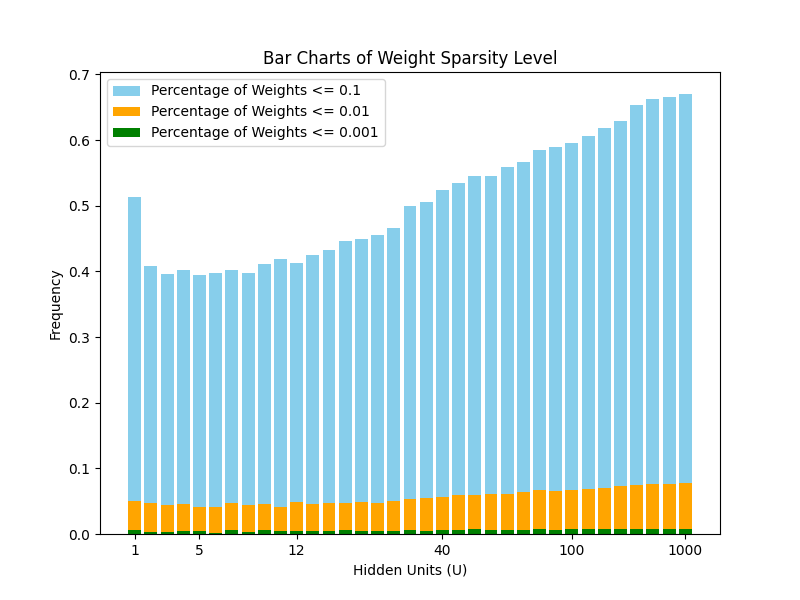
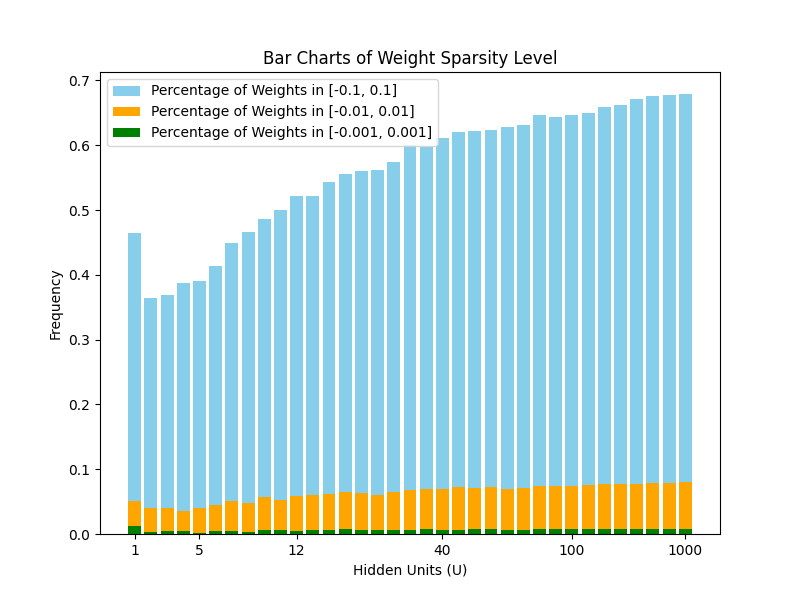
S-Value Test

diff --git a/model_evaluation/sparsity_test.py b/model_evaluation/sparsity_test.py
@@ -3,12 +3,129 @@ import sys
 import os
 
 import matplotlib.pyplot as plt
-import seaborn as sns
+from model_evaluation import knn_test
+from collections import Counter
+from scipy.stats import rankdata
+from tqdm import tqdm
 
 sys.path.append('..')
-
 import models
-import datasets
+
+def get_activation_ratio(args, dataloader, directory, hidden_units):
+    count_active_ratio_list = []
+
+    s_value_list = []
+
+    for hidden_unit in tqdm(hidden_units, desc="Processing"):
+        # Initialize model with pretrained weights
+        checkpoint_path = os.path.join(directory, "ckpt")
+        model = models.load_model(checkpoint_path, dataset=args.dataset, hidden_unit=hidden_unit)
+        model.eval()
+
+        # Extract the hidden_features
+        data, hidden_features, predicts, true_labels = knn_test.get_hidden_features('MNIST', model, dataloader)
+
+        # Extract the values of the features and convert them to a list
+        n_features = hidden_features.shape[0] * hidden_features.shape[1]
+
+        # Count the portion of parameters under certain threshold
+        count_active_ratio_list.append(np.count_nonzero(hidden_features != 0) / n_features)
+
+        # Record all activated nodes and the predicted class
+        activation_class = [[] for _ in range(hidden_features.shape[1])]
+
+        for i in range(hidden_features.shape[0]):
+            for j in range(hidden_features.shape[1]):
+                if hidden_features[i, j] != 0:
+                    activation_class[j].append(predicts[i])
+
+        s_value = []
+
+        # Calculate the s_value based on class distribution
+        # Equal distribution: S-Value = 5.5
+        # Single distribution: S-Value = 1
+        for j in range(hidden_features.shape[1]):
+            class_counts = list(Counter(activation_class[j]).values())
+            ranked_counts = len(class_counts) + 1 - rankdata(class_counts)
+            s_value.append(sum([num * rank for num, rank in zip(class_counts, ranked_counts)]) / hidden_features.shape[0])
+
+        s_value_list.append((np.mean(s_value) - 1) / 4.5)
+
+    return count_active_ratio_list, s_value_list
+
+def plot_activation_ratio(args, hidden_units, activation_ratio_list):
+    # Get the activation list mean over runs
+    activation_ratio_list = np.mean(activation_ratio_list, axis=0)
+
+    # Set up the matplotlib figure
+    plt.figure(figsize=(8, 6))
+
+    # Plot the bar chart
+    plt.bar(np.arange(len(hidden_units)), activation_ratio_list, label='Activation Ratio', color='green')
+
+    # Add labels and title
+    plt.xlabel('Hidden Units (U)')
+    plt.ylabel('Frequency')
+    plt.title(f'Activation Ratio of {args.model} trained on {args.dataset}')
+
+    # Set the xticks
+    if args.model in ['SimpleFC', 'SimpleFC_2']:
+        xticks = [1, 5, 12, 40, 100, 1000]
+    elif args.model in ['CNN', 'ResNet18']:
+        xticks = [1, 8, 20, 40, 64]
+    else:
+        raise NotImplementedError
+
+    index = [index for index, value in enumerate(hidden_units) if value in xticks]
+    plt.xticks(index, xticks)
+    plt.ylim([0, 1])
+
+    # Add a legend
+    plt.legend()
+
+    # Show the plot
+    plt.savefig(f"model_evaluation/evaluation_images/Activation-Level-{args.dataset}-{args.model}-Epochs=%d-p=%d.png"
+                % (args.epochs, args.noise_ratio * 100))
+
+def plot_s_value(args, hidden_units, s_value_list):
+    # Get the activation list mean over runs
+    s_value_list = np.mean(s_value_list, axis=0)
+
+    # Set up the matplotlib figure
+    plt.figure(figsize=(8, 6))
+
+    # Plot the bar chart
+    plt.bar(np.arange(len(hidden_units)), s_value_list, label='S-Value', color='orange')
+
+    # Add labels and title
+    plt.xlabel('Hidden Units (U)')
+    plt.ylabel('S-Value')
+    plt.title(f'Activation Ratio of {args.model} trained on {args.dataset}')
+
+    # Set the xticks
+    if args.model in ['SimpleFC', 'SimpleFC_2']:
+        xticks = [1, 5, 12, 40, 100, 1000]
+    elif args.model in ['CNN', 'ResNet18']:
+        xticks = [1, 8, 20, 40, 64]
+    else:
+        raise NotImplementedError
+
+    index = [index for index, value in enumerate(hidden_units) if value in xticks]
+    plt.xticks(index, xticks)
+    plt.ylim([0, 1])
+
+    # Add a legend
+    plt.legend()
+
+    # Show the plot
+    plt.savefig(f"model_evaluation/evaluation_images/S-Value-{args.dataset}-{args.model}-Epochs=%d-p=%d.png"
+                % (args.epochs, args.noise_ratio * 100))
+
+
+
+
+
+
 
 def get_weight_sparsity(model, n_hidden_units):
     state_dict = model.state_dict()
@@ -33,8 +150,10 @@ def get_weight_sparsity(model, n_hidden_units):
 
     return mean, median, p_leq_01, p_leq_001, p_leq_0001
 
-def sparsity_test(args, hidden_units, directory):
-    prob_matrix = np.zeros((len(hidden_units), 3))
+
+def weight_sparsity_test(args, hidden_units, directory):
+
+    weight_prob_matrix = np.zeros((len(hidden_units), 3))
 
     for i, n in enumerate(hidden_units):
         # Initialize model with pretrained weights
@@ -43,18 +162,17 @@ def sparsity_test(args, hidden_units, directory):
         model.eval()
 
         mean, median, p_leq_01, p_leq_001, p_leq_0001 = get_weight_sparsity(model, n)
-
-        prob_matrix[i, :] = np.array([p_leq_01, p_leq_001, p_leq_0001])
+        weight_prob_matrix[i, :] = np.array([p_leq_01, p_leq_001, p_leq_0001])
 
     # Set up the matplotlib figure
     plt.figure(figsize=(8, 6))
 
     # Plot the bar chart
-    plt.bar(np.arange(len(hidden_units)), prob_matrix[:, 0], label='Percentage of Weights <= 0.1',
+    plt.bar(np.arange(len(hidden_units)), weight_prob_matrix[:, 0], label='Percentage of Weights in [-0.1, 0.1]',
             color='skyblue')
-    plt.bar(np.arange(len(hidden_units)), prob_matrix[:, 1], label='Percentage of Weights <= 0.01',
+    plt.bar(np.arange(len(hidden_units)), weight_prob_matrix[:, 1], label='Percentage of Weights in [-0.01, 0.01]',
             color='orange')
-    plt.bar(np.arange(len(hidden_units)), prob_matrix[:, 2], label='Percentage of Weights <= 0.001',
+    plt.bar(np.arange(len(hidden_units)), weight_prob_matrix[:, 2], label='Percentage of Weights in [-0.001, 0.001]',
             color='green')
 
     # Add labels and title

diff --git a/main.py b/main.py
@@ -276,7 +276,7 @@ if __name__ == '__main__':
     parser.add_argument('--opt', default='sgd', type=str, help='use which optimizer. SGD or Adam')
     parser.add_argument('--lr', default=0.05, type=float, help='learning rate')
 
-    parser.add_argument('--task', choices=['initialize', 'train', 'test', 'rade', 'sparsity'],
+    parser.add_argument('--task', choices=['initialize', 'train', 'test', 'rade', 'activ'],
                         help='what task to perform')
     parser.add_argument('--manytasks', default=False, type=bool, help='if use manytasks to run')
     parser.add_argument('--tsne', default=False, type=bool, help='perform T-SNE experiment test')
@@ -295,7 +295,7 @@ if __name__ == '__main__':
 
     # Define Hidden Units
     if (args.task in ['initialize', 'train'] and not args.manytasks) \
-            or (args.task in ['test', 'rade', 'sparsity'] and not args.tsne):
+            or (args.task in ['test', 'rade', 'activ'] and not args.tsne):
         if args.model in ['SimpleFC', 'SimpleFC_2']:
             hidden_units = [1, 2, 3, 4, 5, 6, 7, 8, 9, 10,
                             12, 14, 16, 18, 20, 22, 25, 30, 35, 40,
@@ -323,6 +323,7 @@ if __name__ == '__main__':
 
     parameters, train_accuracy, test_accuracy, train_losses, test_losses = [], [], [], [], []
     knn_5_accuracy_list = []
+    active_activation_ratio_list, s_value_list = [], []
 
     # Main Program
     for test_number in range(args.start, args.end + 1):
@@ -421,14 +422,32 @@ if __name__ == '__main__':
             # Run KNN Test
             if args.knn and args.noise_ratio > 0:
                 knn_5_accuracy_list.append(knn_test.knn_prediction_test(directory, hidden_units, args))
+        # Rademacher Complexity Estimation Test
         elif args.task == 'rade':
             n_complexity = rademacher_test.get_complexity(args, hidden_units, directory)
-        elif args.task == 'sparsity':
-            sparsity_test.sparsity_test(args, hidden_units, directory)
+        # Activation Ratio Test
+        elif args.task == 'activ':
+            test_dataset = datasets.get_test_dataset(DATASET=args.dataset)
+
+            test_dataloader = datasets.DataLoaderX(test_dataset, batch_size=args.batch_size,
+                                                   shuffle=False,
+                                                   num_workers=args.workers,
+                                                   pin_memory=True)
+
+            active_activation_ratio, s_value = sparsity_test.get_activation_ratio(args,
+                                                                                   test_dataloader,
+                                                                                   directory,
+                                                                                   hidden_units)
+
+            active_activation_ratio_list.append(active_activation_ratio)
+            s_value_list.append(s_value)
         else:
             raise NotImplementedError
 
     if args.task == 'test':
         plot(args, parameters, train_accuracy, test_accuracy, train_losses, test_losses, knn_5_accuracy_list)
+    elif args.task == 'activ':
+        sparsity_test.plot_activation_ratio(args, hidden_units, active_activation_ratio_list)
+        sparsity_test.plot_s_value(args, hidden_units, s_value_list)
 
     print('Program Ends!!!')
